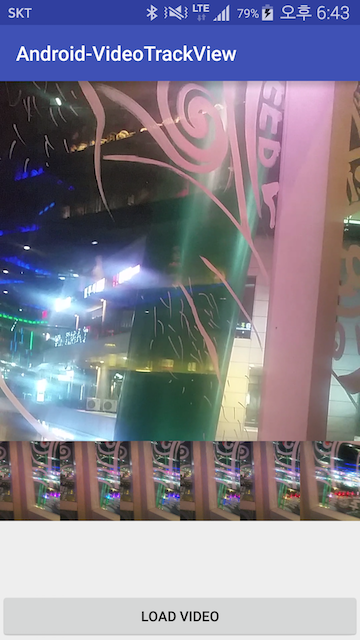
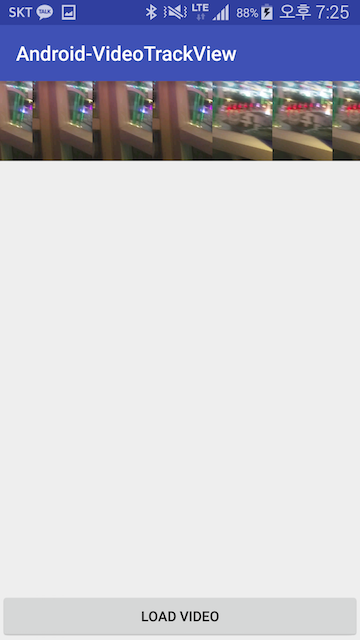
add license

diff --git a/app/src/main/java/com/crust87/videotrackviewsample/MainActivity.java b/app/src/main/java/com/crust87/videotrackviewsample/MainActivity.java
@@ -1,21 +1,39 @@
+/*
+ * Android-VideoTrackView
+ * https://github.com/crust87/Android-VideoTrackView
+ *
+ * Mabi
+ * crust87@gmail.com
+ * last modify 2015-12-14
+ *
+ * Licensed under the Apache License, Version 2.0 (the "License");
+ * you may not use this file except in compliance with the License.
+ * You may obtain a copy of the License at
+ *
+ * http://www.apache.org/licenses/LICENSE-2.0
+ *
+ * Unless required by applicable law or agreed to in writing, software
+ * distributed under the License is distributed on an "AS IS" BASIS,
+ * WITHOUT WARRANTIES OR CONDITIONS OF ANY KIND, either express or implied.
+ * See the License for the specific language governing permissions and
+ * limitations under the License.
+ */
+
 package com.crust87.videotrackviewsample;
 
 import android.content.Intent;
 import android.database.Cursor;
-import android.media.MediaPlayer;
 import android.net.Uri;
 import android.provider.MediaStore;
 import android.support.v7.app.AppCompatActivity;
 import android.os.Bundle;
 import android.view.View;
 
-import com.crust87.videocropview.VideoCropView;
 import com.crust87.videotrackview.VideoTrackView;
 
 public class MainActivity extends AppCompatActivity {
 
     // Layout Components
-    private VideoCropView mVideoCropView;
     private VideoTrackView mVideoTrackView;
 
     // Attributes
@@ -31,19 +49,10 @@ public class MainActivity extends AppCompatActivity {
     private void loadGUI() {
         setContentView(R.layout.activity_main);
 
-        mVideoCropView = (VideoCropView) findViewById(R.id.videoCropView);
         mVideoTrackView = (VideoTrackView) findViewById(R.id.videoTrackView);
     }
 
     private void bindEvent() {
-        mVideoCropView.setOnPreparedListener(new MediaPlayer.OnPreparedListener() {
-
-            @Override
-            public void onPrepared(MediaPlayer mp) {
-                mVideoCropView.start();
-            }
-        });
-
         mVideoTrackView.setOnUpdatePositionListener(new VideoTrackView.OnUpdatePositionListener() {
             @Override
             public void onUpdatePositionStart() {
@@ -69,9 +78,6 @@ public class MainActivity extends AppCompatActivity {
 
             originalPath = getRealPathFromURI(selectedVideoUri);
             mVideoTrackView.setVideo(originalPath);
-
-            mVideoCropView.setVideoURI(selectedVideoUri);
-            mVideoCropView.seekTo(1);
         }
     }
 

diff --git a/videoTrackView/src/main/java/com/crust87/videotrackview/VideoTrackView.java b/videoTrackView/src/main/java/com/crust87/videotrackview/VideoTrackView.java
@@ -1,6 +1,25 @@
-package com.crust87.videotrackview;
+/*
+ * Android-VideoTrackView
+ * https://github.com/crust87/Android-VideoTrackView
+ *
+ * Mabi
+ * crust87@gmail.com
+ * last modify 2015-12-14
+ *
+ * Licensed under the Apache License, Version 2.0 (the "License");
+ * you may not use this file except in compliance with the License.
+ * You may obtain a copy of the License at
+ *
+ * http://www.apache.org/licenses/LICENSE-2.0
+ *
+ * Unless required by applicable law or agreed to in writing, software
+ * distributed under the License is distributed on an "AS IS" BASIS,
+ * WITHOUT WARRANTIES OR CONDITIONS OF ANY KIND, either express or implied.
+ * See the License for the specific language governing permissions and
+ * limitations under the License.
+ */
 
-import java.util.ArrayList;
+package com.crust87.videotrackview;
 
 import android.content.Context;
 import android.content.res.TypedArray;
@@ -14,12 +33,11 @@ import android.graphics.Rect;
 import android.graphics.RectF;
 import android.media.MediaMetadataRetriever;
 import android.util.AttributeSet;
-import android.util.Log;
-import android.util.SparseArray;
-import android.util.TypedValue;
 import android.view.MotionEvent;
 import android.view.SurfaceHolder;
 import android.view.SurfaceView;
+
+import java.util.ArrayList;
 
 
 public class VideoTrackView extends SurfaceView implements SurfaceHolder.Callback {
